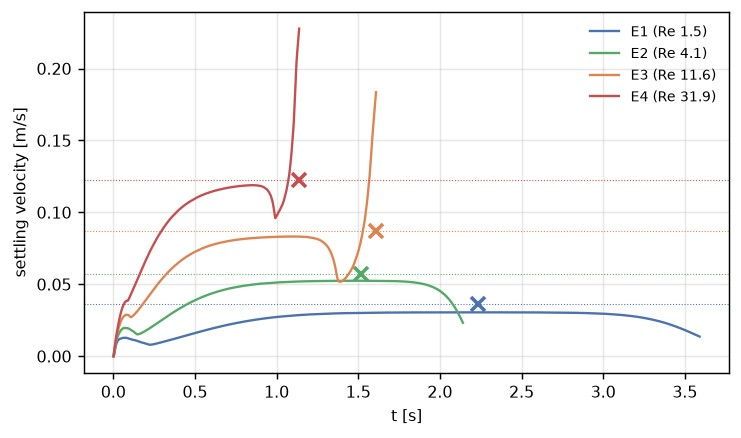
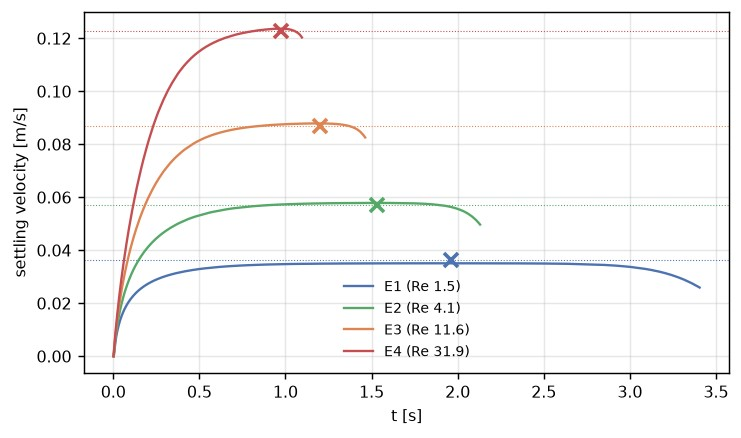
ten-cate: resolved — within 3.5% at every case, after two solver fixes and one geometry trap
The tank slab was wider than the periodic box; the scene evaluates the
UNION of an instance's periodic images, so the slab refilled its own cavity
and the tank ran 30% narrow (d/W 0.21 vs 0.15) through two campaigns. With
the slab at half the box + wall (and flow now detecting the trap):
  E1 (Re 1.5) d/h 8/12/16:  0.922 / 0.917 / 0.914  vs 0.947  (-2.6..-3.5%)
  E2 / E3 / E4 at d/h 12:   0.966 / 0.970 / 0.963  vs 0.953/0.959/0.955
                            (+1.4 / +1.2 / +0.9%)
All falls physical, decelerating smoothly into the floor. The page now
narrates the three fixes it took (per-body attribution 1d95260, wall
velocity in the advection fb1a1a7, the tank itself) and keeps the honest
E1 residual (-3%, resolution-flat, against a +-1% measurement).

Landing page: cards + nav for galilean-drag, confined-drag-screening,
drafting-kissing-tumbling; ten-cate card rewritten. PROGRESS/ISSUES updated.

Claude-Session: https://claude.ai/code/session_015VFHwjBNfmqw89iVFh2sC6

diff --git a/PROGRESS.md b/PROGRESS.md
@@ -152,8 +152,10 @@ Legend: [x] done+pushed · [~] in progress · [ ] todo · [!] blocked/documented
 - [x] **New pages:** `galilean-drag` (finite-Re Galilean pair) and `confined-drag-screening`
       (K(Re) creeping → 1.5 → 30 with the trap demonstrated). ten-cate re-rendered with the
       corrected tank and rewritten.
-- [ ] **E3b `drafting-kissing-tumbling`** — **UNBLOCKED** (coupled resolved motion is quantitative
-      at finite Re); next page.: DKT is finite-Re coupled
+- [x] **E3b `drafting-kissing-tumbling`** (`b0ed865`) — Glowinski 3-D setup, two moving instances
+      in a CSG tank, force + torque coupling, dem contact at the kiss. d/h = 12 (88×304×88, 26 min):
+      drafting from 0.153 s, contact 0.333 s, side by side 0.482 s; peaks 6.05 / 8.48 cm/s. Claim =
+      the sequence + internal timing (no digitised reference curves) — stated as such.: DKT is finite-Re coupled
       two-body motion, the exact regime E3a just measured as quantitatively broken (creeping-valued
       confinement + momentum leak). Building it before the §7-item-8 solver fix would ship a
       known-bad benchmark. It becomes the natural second regression page after the fix.

diff --git a/ISSUES.md b/ISSUES.md
@@ -616,7 +616,12 @@ profile with the measured shear equal to nominal to 5e-6 relative.
 
 **Workaround.** Keep analytic-wall faces off lattice planes (any fractional offset works).
 
-**Suggested for the suite.** Either extend the wall-velocity fold to the aligned-face
+**Update 2026-09-02 — root-caused and detected (suite §7 item 12).** A staggered point with sdf
+exactly zero is fluid to the mask (strict < 0) and not a ghost to the cut-cell fold (strict < 0):
+the wall has no row. `set_solid_from_scene` now warns and `moving_instance_degenerate_points()`
+counts them; gate `lattice_plane_gate.py`.
+
+**Suggested for the suite (original).** Either extend the wall-velocity fold to the aligned-face
 configuration (the staggered u-point half a cell inside the solid could carry the wall velocity as
 its masked value), or detect the case in `set_solid_from_scene` — a moving instance whose surface
 produces zero cut cells on some axis — and warn loudly. The failure is completely silent and looks
